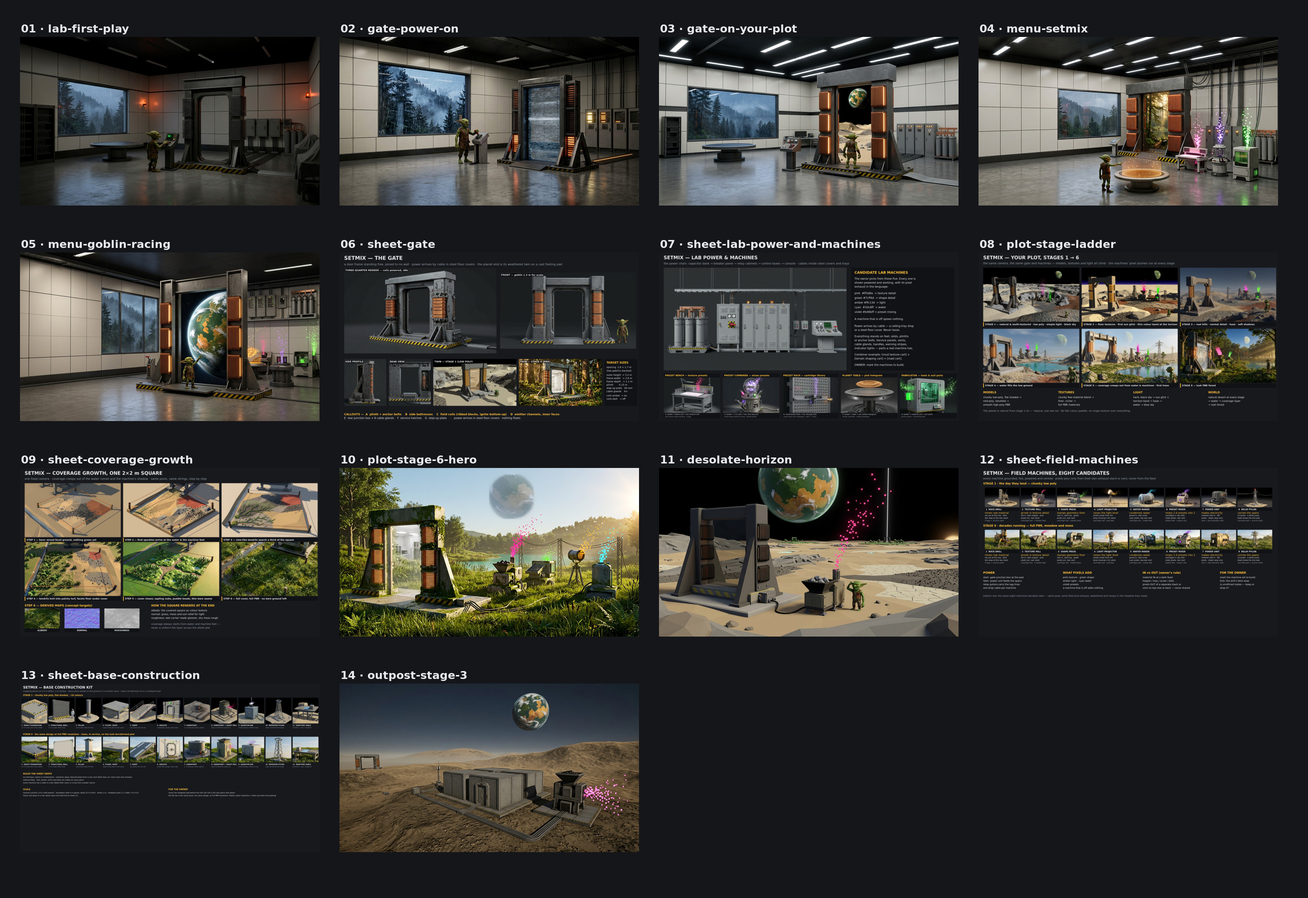
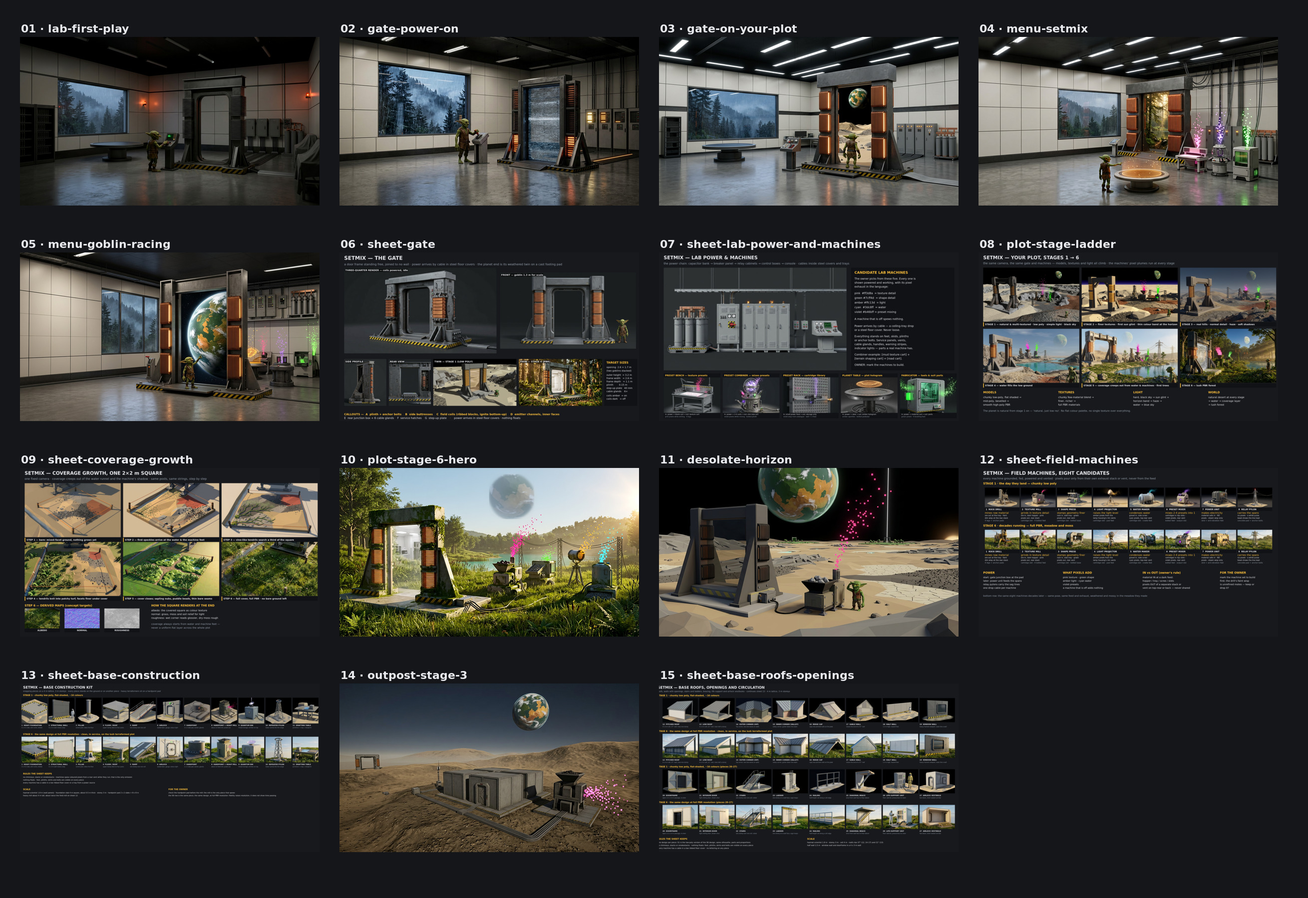
setmix sheet 15: roofs, openings and circulation (pieces 12-27, S1/S6); README row 15 (additions only); contact sheet rebuilt with 15; compose15.sh

Changed region(s): [[0.4947, 0.7467, 0.742, 0.9644]]

diff --git a/docs/concept/setmix/README.md b/docs/concept/setmix/README.md
@@ -22,6 +22,7 @@ decisions outrank everything; `gdd.ts` names are an undecided idea menu).
 | 12 | `12-sheet-field-machines.png` | design sheet — 8 candidate field machines, S1/S6 |
 | 13 | `13-sheet-base-construction.png` | design sheet — 11 base pieces, S1 low poly / S6 full PBR, same design at both stages |
 | 14 | `14-outpost-stage-3.png` | scene — a sealed four-cell outpost at stage 3, mill on its pad, cables in floor covers, gate on the horizon |
+| 15 | `15-sheet-base-roofs-openings.png` | design sheet — 16 pieces (12–27): roofs, corners, ridge, gable, half and window walls, doorframe, interior door, stairs, ladder, railing, brace, life-support unit, airlock vestibule; S1/S6, same design at both stages |
 | — | `contact-sheet.jpg` | all 12, numbered |
 
 Supporting material (tracked for reproducibility): `panels/12/` — the 16 panel
